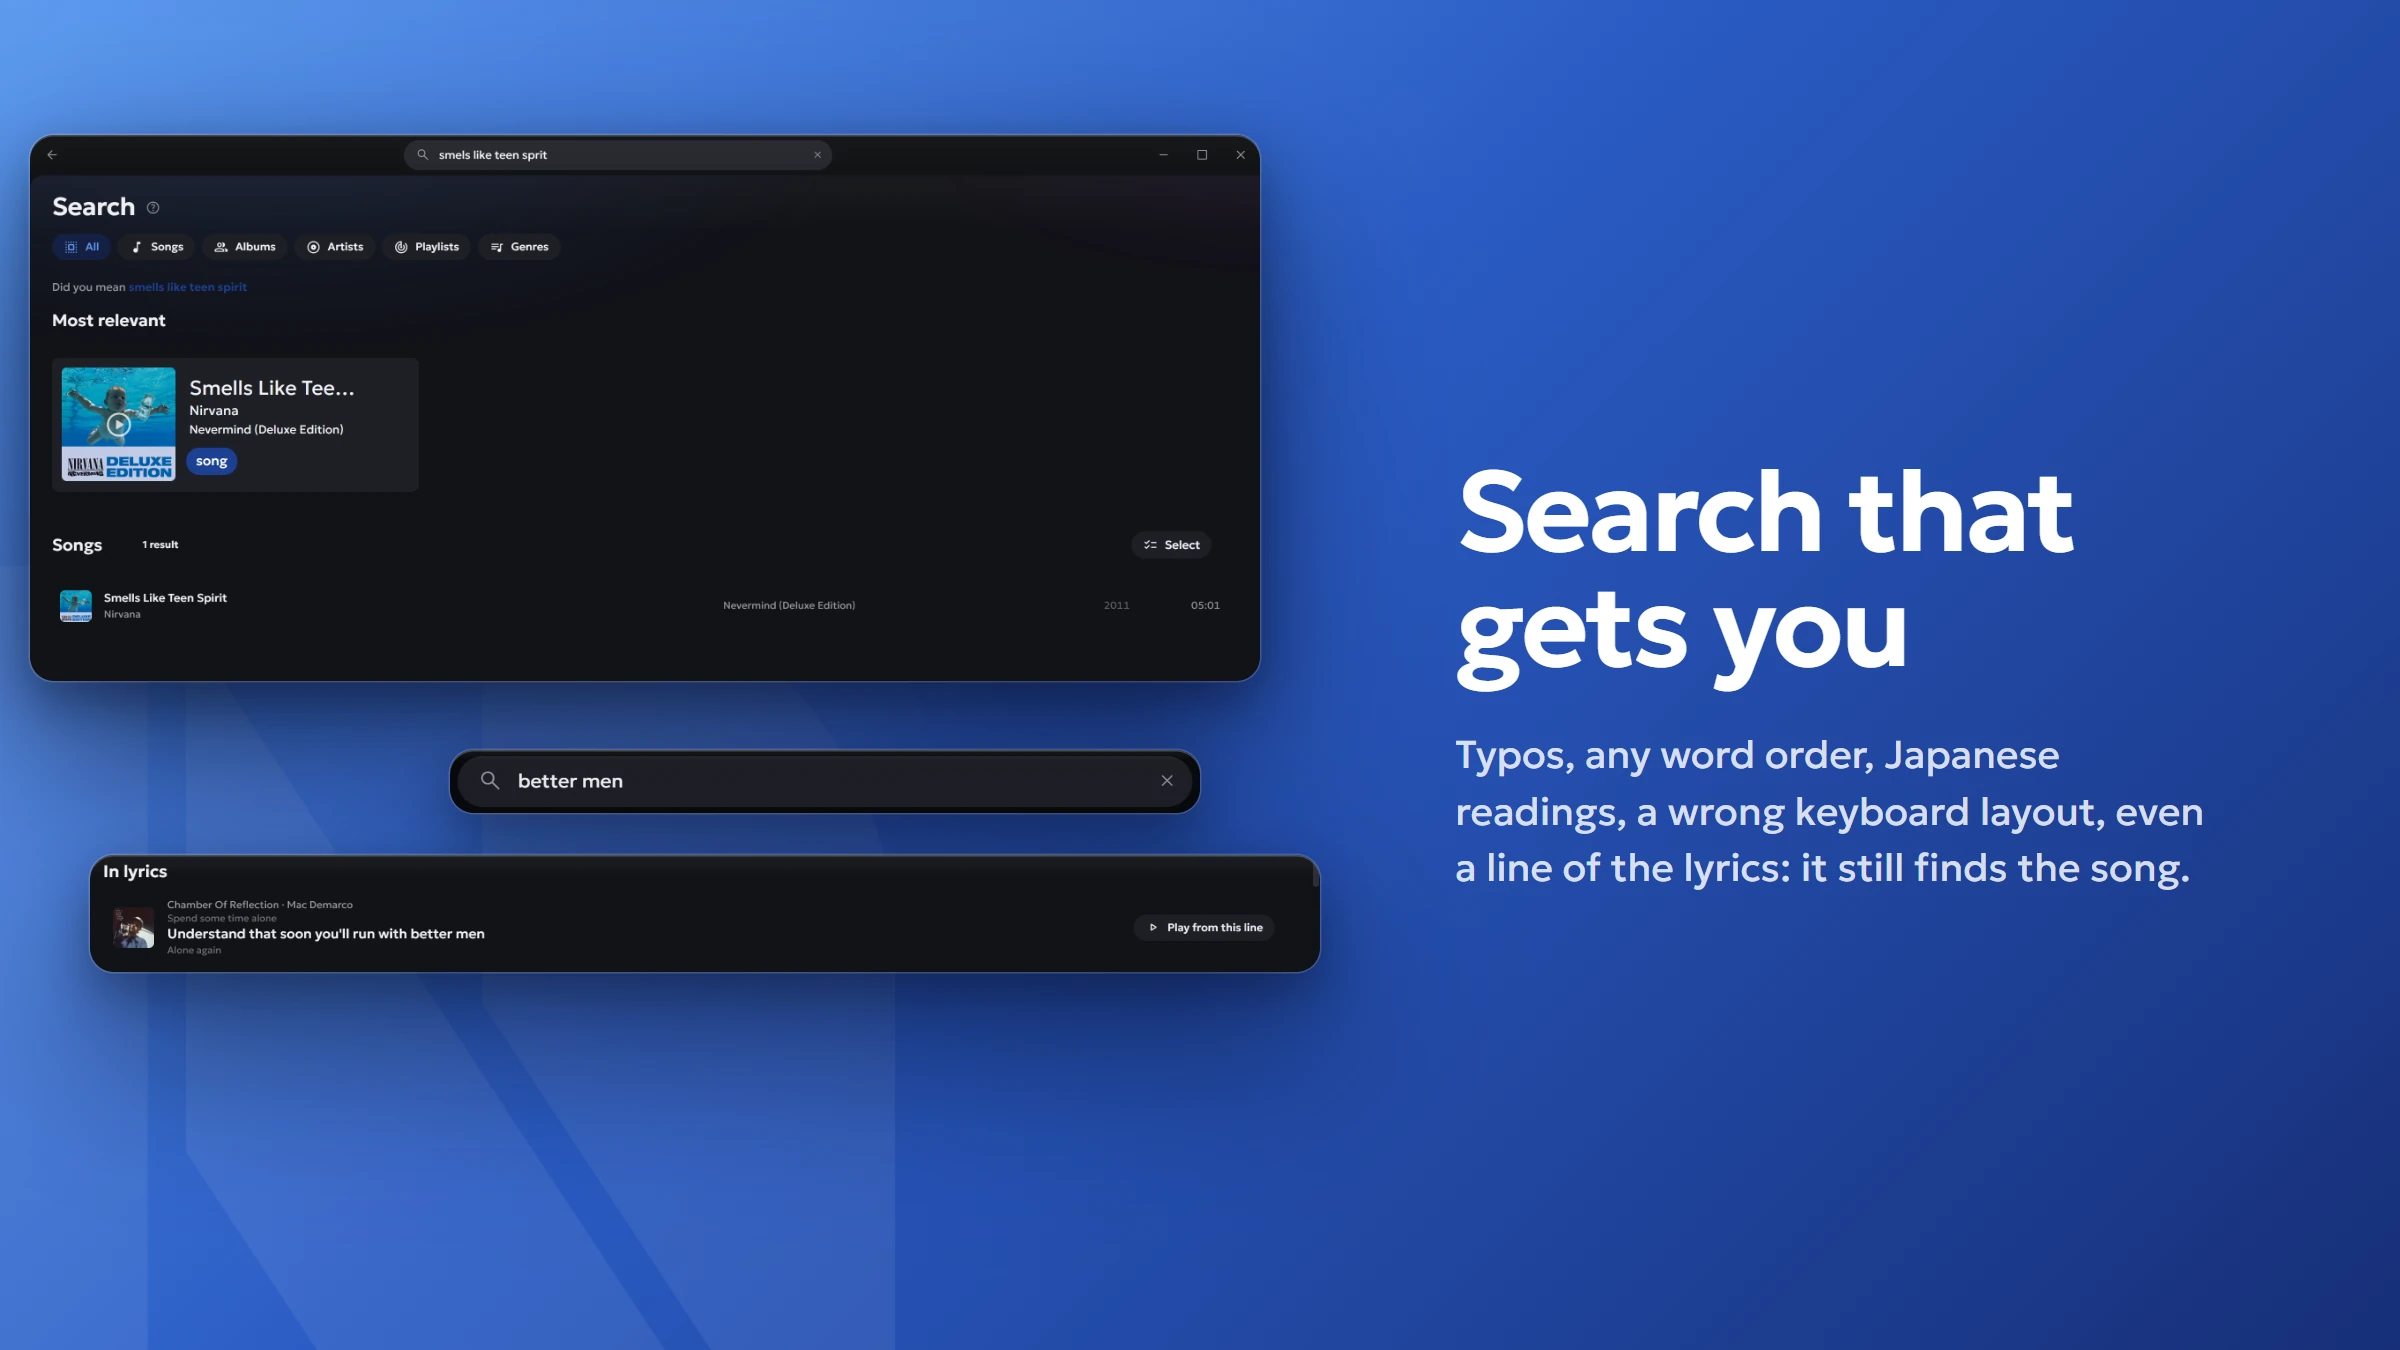
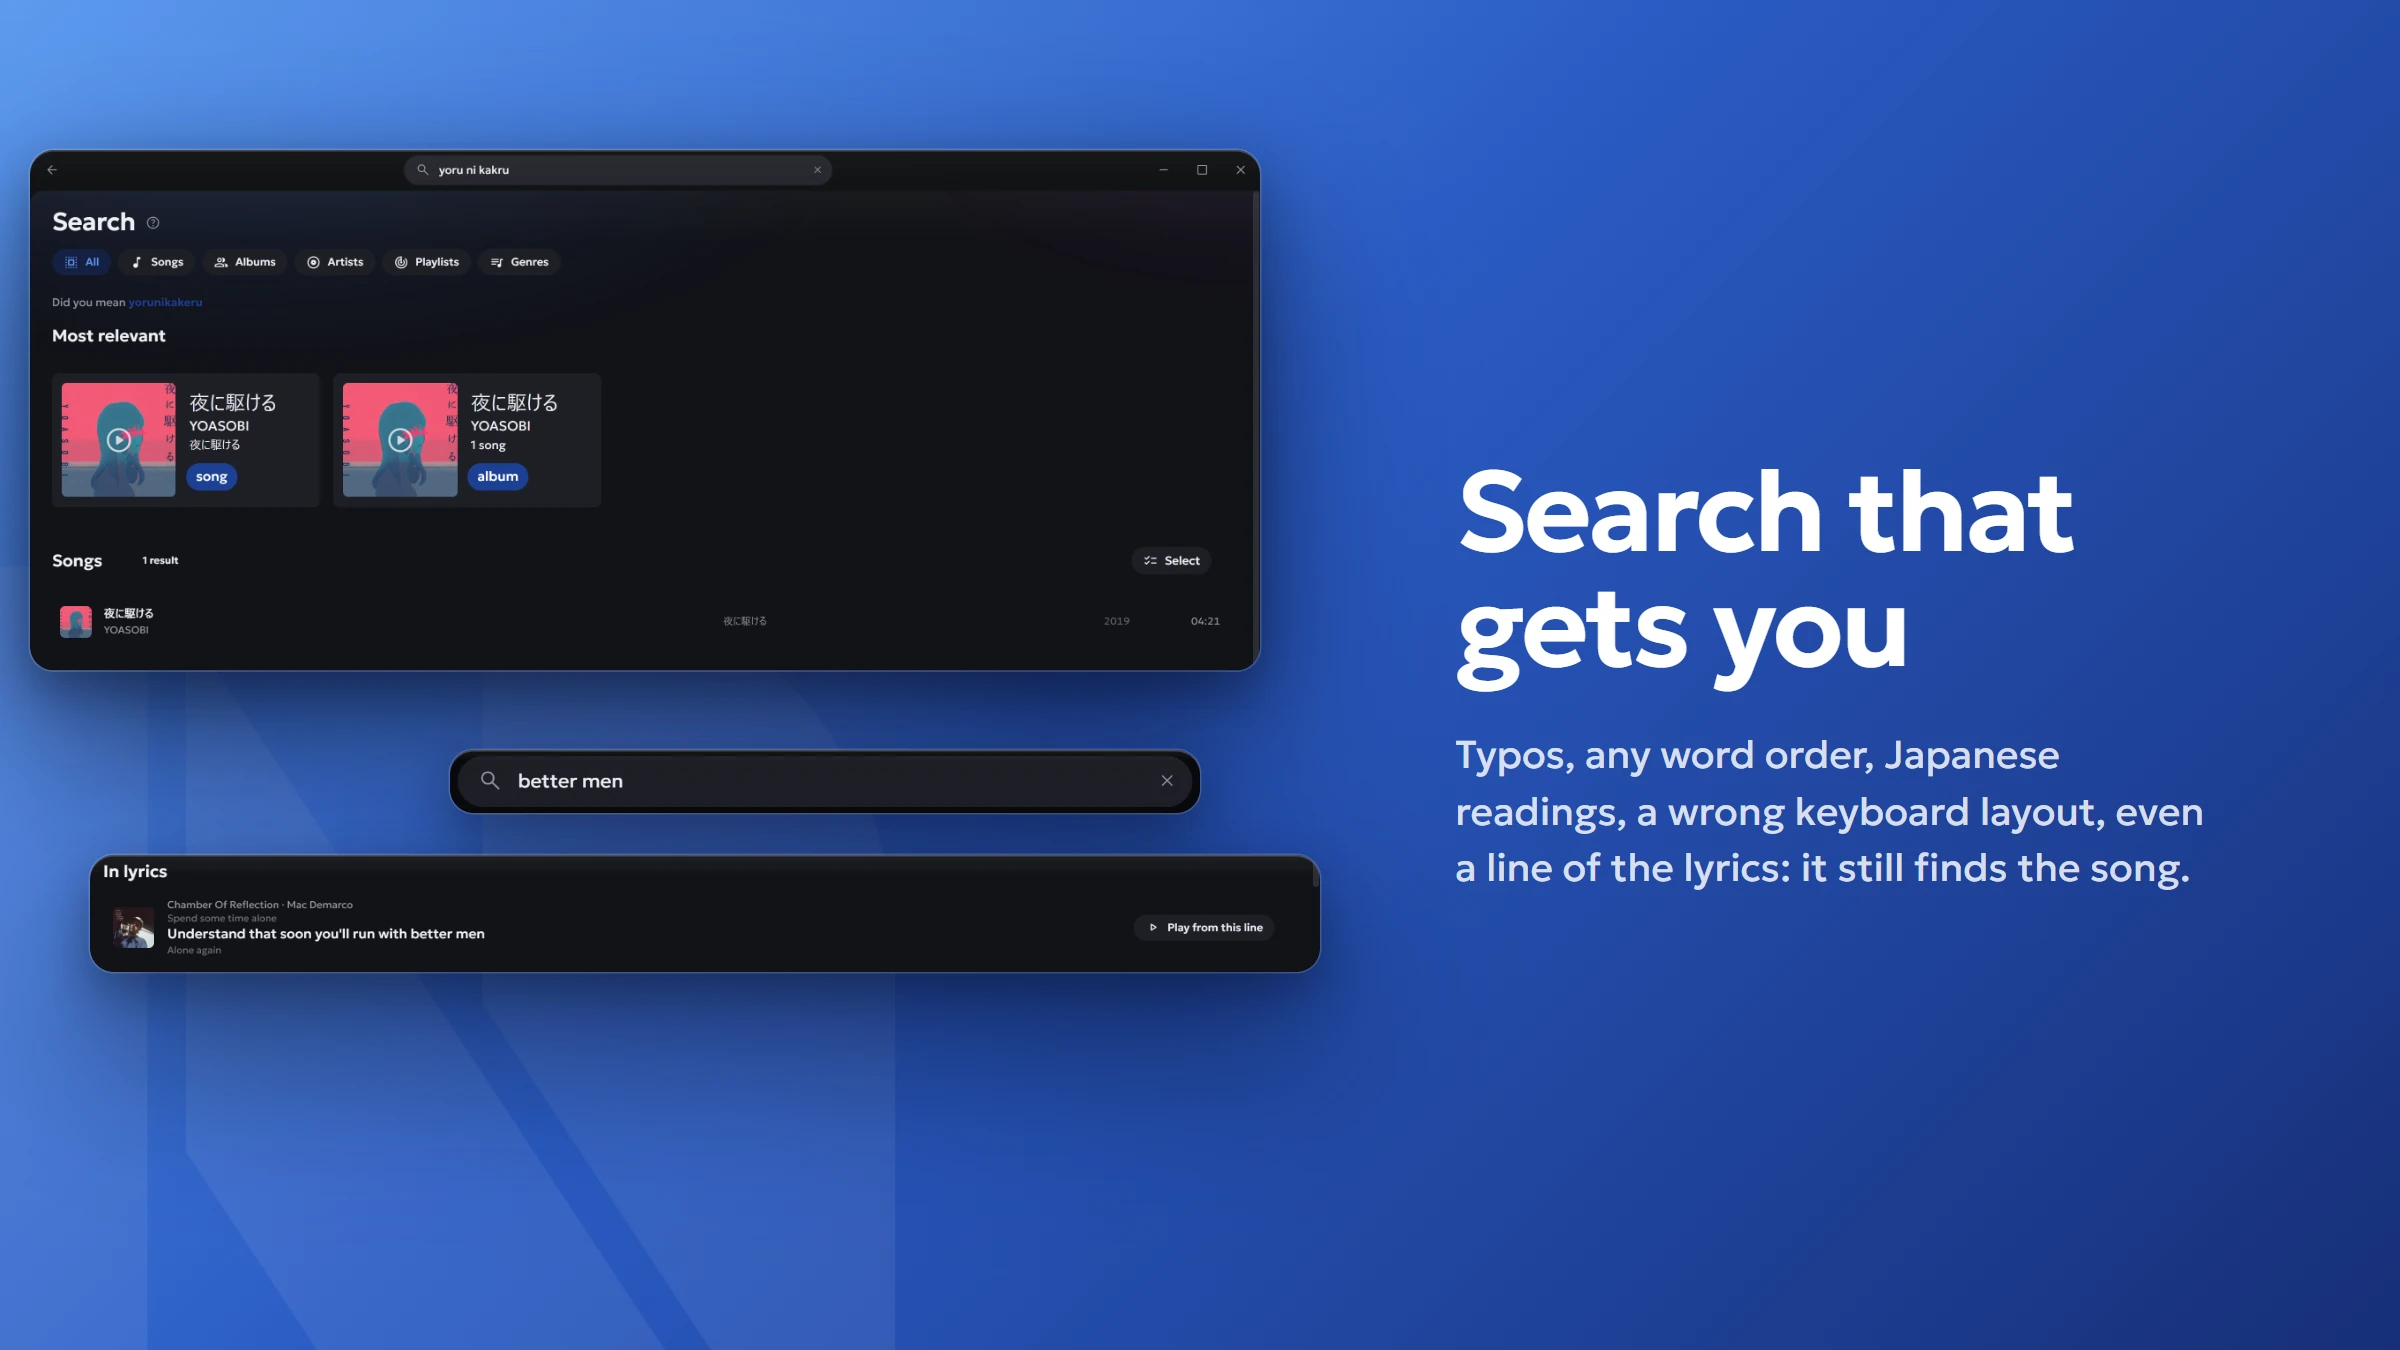
README pictures: Home is back in the hero (--readme plays a set of well-known and everyday songs first in the stand's copy, so Recently played shows them; Recently added and the songs and artists left out are dropped from the shot), the tierlist is dark and has no Nirvana, search finds YOASOBI's 夜に駆

diff --git a/tools/readme/compose.py b/tools/readme/compose.py
@@ -1,6 +1,6 @@
 """Builds the README pictures: the hero banner and one card per feature, from real shots of the app.
 
-  node tools/redesign/shots.mjs --label readme2x --scale 2 --skip-empty --only <the ids in SHOTS below>
+  node tools/redesign/shots.mjs --label readme2x --scale 2 --readme --skip-empty --only <the ids in SHOTS below>
   python tools/readme/compose.py [--shots E:\\tmp\\nemora-shots\\readme2x\\png] [--only hero,shuffle] [--png]
 
 Writes resources/readme/*.webp (and *.png next to them with --png). Needs Python with playwright and
@@ -35,7 +35,7 @@ CARDS = [
          title="Smart Shuffle<br>that explains itself",
          text="It leans toward what you rate and how you listen, shows why each song comes next, and lets you steer it for the session."),
     dict(key="tierlists", bg="dawn", side="right",
-         shots=[("r-tierlist", "light", None, (60, 190, 840))],
+         shots=[("r-tierlist", "dark", None, (60, 190, 840))],
          title="Rank your music<br>in tierlists",
          text="Drag songs into tiers, play a tierlist like a playlist, export it as an image. Your tiers feed Smart Shuffle."),
     dict(key="duels", bg="deep", side="left",
@@ -55,7 +55,7 @@ CARDS = [
          title="Slowed<br>+ reverb",
          text="Speed, pitch and a real reverb in the audio engine. Keep a sound as a version of the song, or switch the song itself to it."),
     dict(key="search", bg="dawn", side="left",
-         shots=[("r-search", "dark", (205, 0, 1600, 620), (760, 90, 820)), ("36q-search-in-lyrics", "dark", (624, 2, 1120, 44), (800, 500, 500)), ("36q-search-in-lyrics", "dark", (215, 680, 1600, 812), (720, 570, 820))],
+         shots=[("r-search", "dark", (205, 0, 1600, 590), (760, 100, 820)), ("36q-search-in-lyrics", "dark", (624, 2, 1120, 44), (800, 500, 500)), ("36q-search-in-lyrics", "dark", (215, 680, 1600, 812), (720, 570, 820))],
          title="Search that<br>gets you",
          text="Typos, any word order, Japanese readings, a wrong keyboard layout, even a line of the lyrics: it still finds the song."),
     dict(key="fullscreen", bg="ink", side="right",
@@ -71,7 +71,7 @@ CARDS = [
          title="Make it<br>yours",
          text="Light and dark themes, eight accent colours, five frame shades, thirteen languages."),
 ]
-HERO = dict(key="hero", shots=[("r-tierlist", "dark", None, (800, 150, 1100))])
+HERO = dict(key="hero", shots=[("r-home", "dark", None, (800, 150, 1100))])
 # Order in the README; the cards alternate sides from the first, mirrored where they were drawn the other way.
 ORDER = ["tierlists", "sound", "shuffle", "stats", "search", "duels", "tastemap", "fullscreen", "agents", "yours"]
 
